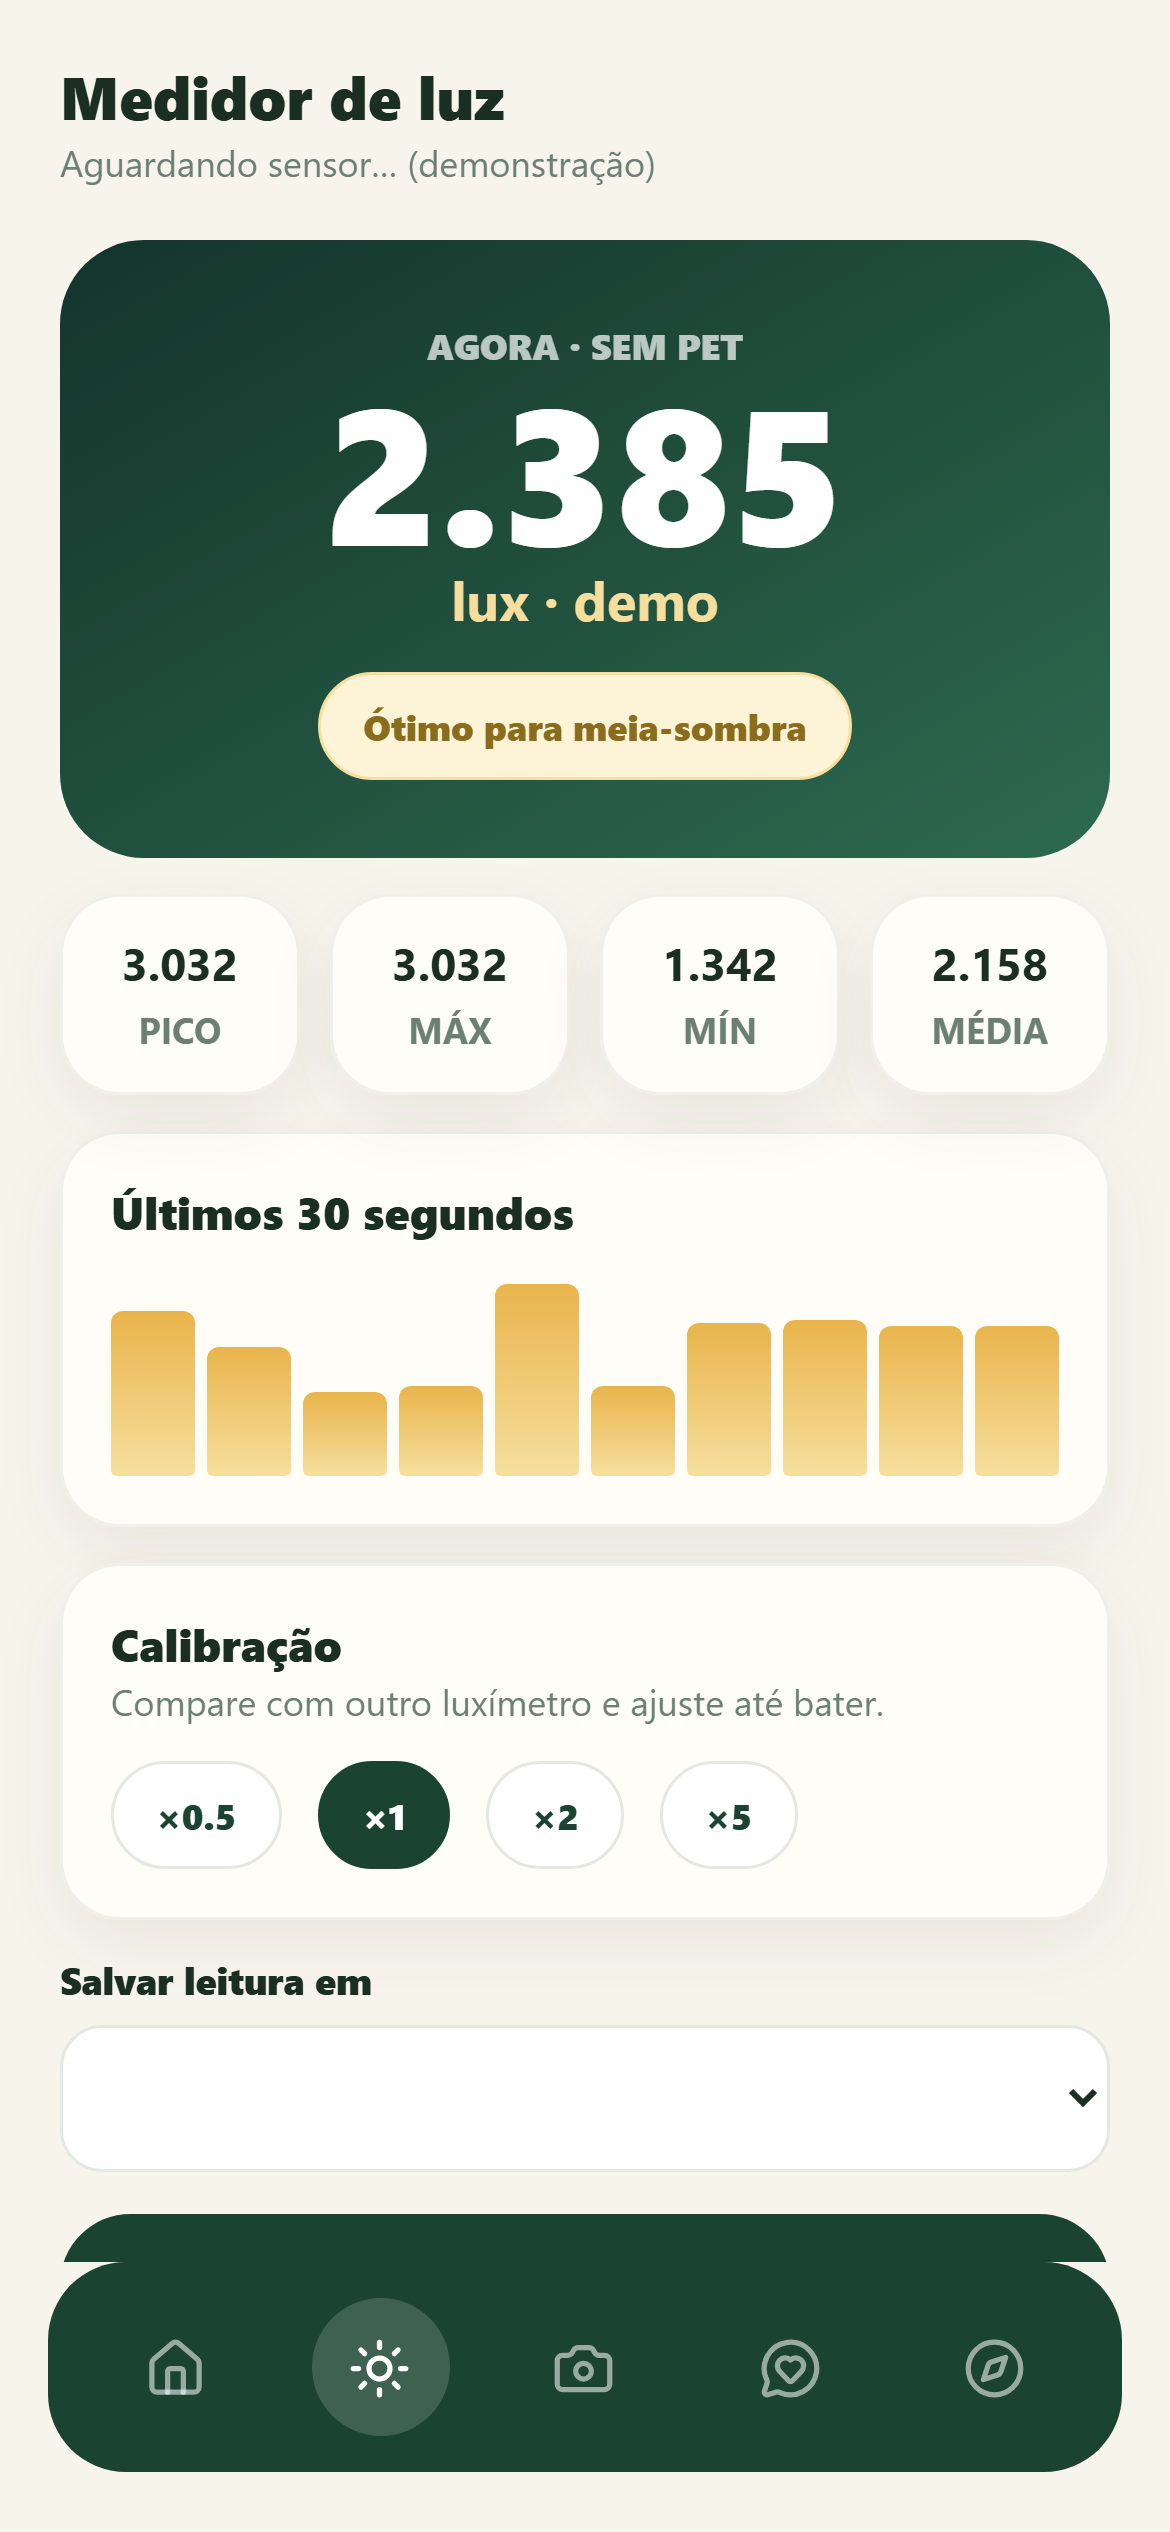
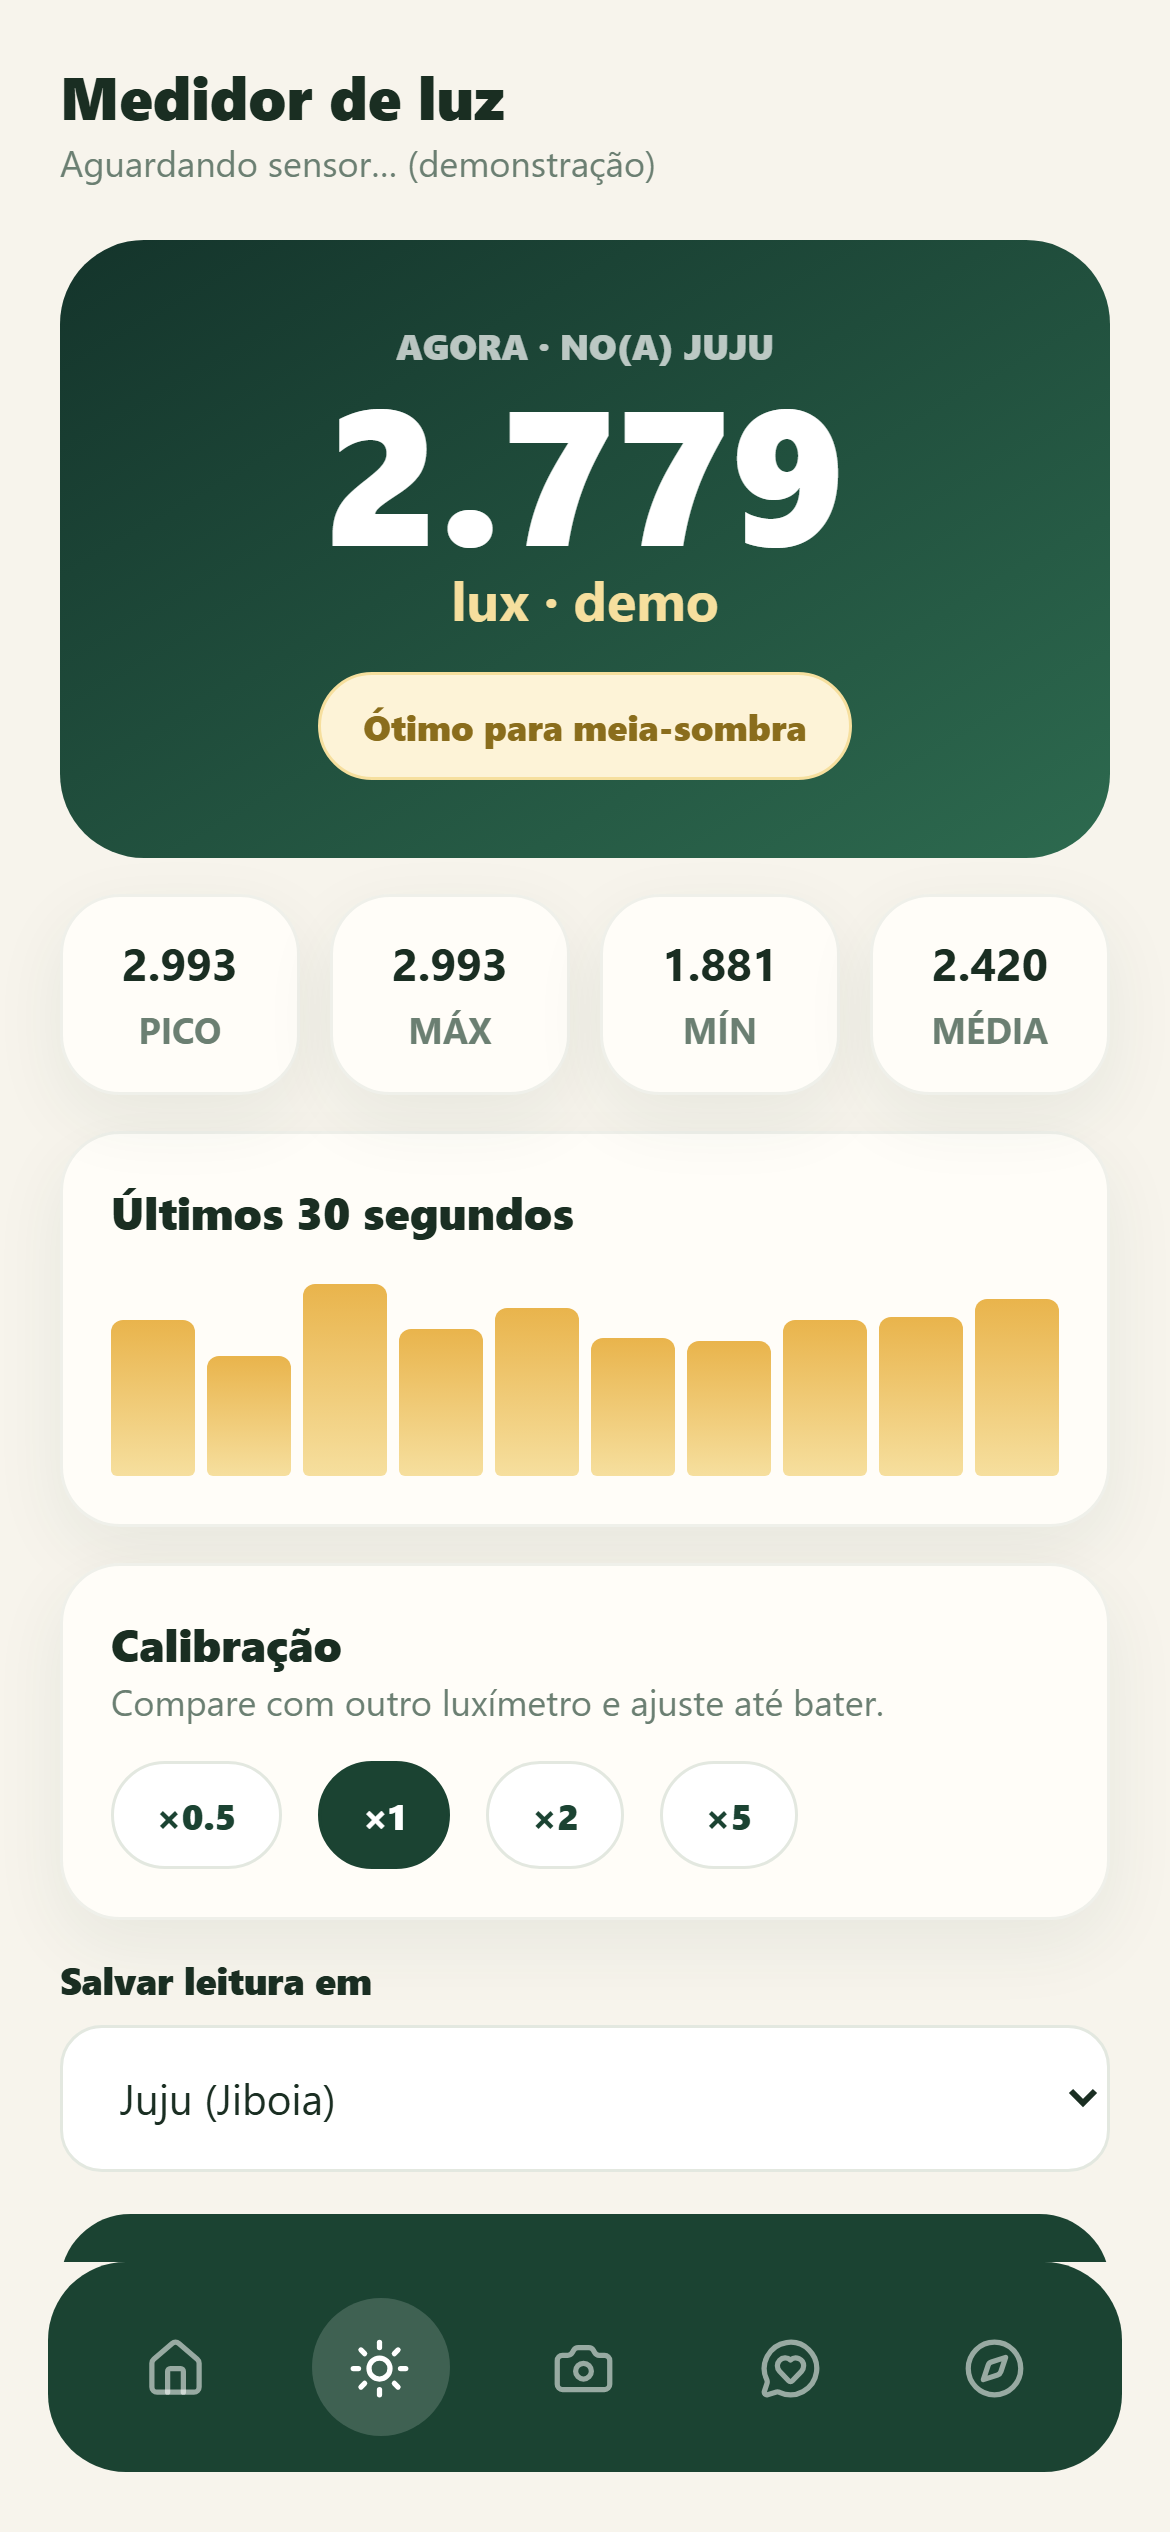
Video: roteiros, telas reais do app e correcao da posicao do sol

diff --git a/mudai/video/README.md b/mudai/video/README.md
@@ -68,14 +68,42 @@ um enfeite — assim o vídeo tem uma ideia só, e não vários efeitos soltos.
 | `04-identificar.png` | 1ª tela | É o efeito uau: foto → Costela-de-adão, 98%. Vende sozinho |
 | `05-chat-hachimi.png` | 2ª tela | Mostra conversa de gente real, não robô. É o diferencial |
 | `07-minhas-plantas.png` | 3ª tela | Puxa o emocional: suas plantas como pets, com nota de saúde |
-| `03-medidor-luz.png` | 4ª tela | Prova que é útil de verdade: 2.385 lux na tela |
-| `06-posicao-sol.png` | reserva | Se sobrar tempo ou quiser trocar a do medidor |
+| `03-medidor-luz.png` | 4ª tela | Prova que é útil de verdade: 2.385 lux na tela ⚠ veja abaixo |
+| `06-posicao-sol.png` | reserva | Bússola solar com azimute e elevação reais |
 | `01-descobrir.png` | reserva | 200 plantas — bom para falar de variedade |
 | `02-ficha-planta.png` | reserva | Ficha completa com os gráficos |
 | `00-boas-vindas.png` | reserva | Abertura do app, se quiser outro começo |
 
 Todas são print real, 1170x2532 (3x), já com os dados verdadeiros: a Juju com
-saúde 100, a Gordinha com 59, o Hachimi respondendo sobre folha amarela.
+saúde 100, a Gordinha com 59, o Hachimi respondendo sobre folha amarela e a
+identificação acertando a Espada-de-são-jorge com 88%.
+
+Para recapturar (depois de mudar algo no app):
+
+```bash
+cd mudai/app
+set NODE_ENV=development
+set MUDAI_SESSAO=<token-de-sessão>
+node scripts/capturar-telas.mjs
+```
+
+O script pega os dados reais de produção e injeta as três plantas (Juju,
+Gordinha e Zazá) antes de fotografar, para nenhuma tela aparecer vazia.
+
+### ⚠ A tela do medidor precisa ser recapturada no celular
+
+`03-medidor-luz.png` foi capturada no navegador, que **não tem sensor de luz**.
+Por isso ela mostra `lux · demo` e o aviso "Aguardando sensor… (demonstração)".
+
+Isso é de propósito: o app avisa quando o número não veio do hardware, em vez de
+mostrar valor inventado como se fosse real. Nada de errado com o app — mas em
+propaganda não pega bem.
+
+**Como resolver:** abra o app no celular (que tem sensor), vá em Medidor de Luz e
+tire print do aparelho. O texto vira `lux · real`. Se não der, use
+`06-posicao-sol.png` no lugar dela — é igualmente visual e não tem esse aviso.
+
+
 
 ## Trilha e som
 

diff --git a/mudai/video/roteiro-24s.md b/mudai/video/roteiro-24s.md
@@ -23,7 +23,7 @@ continuidade que os blocos separados não conseguem.
 | **8,0s–11,0s** | A pétala acelera e vem na direção da câmera, crescendo, com rastro mostarda. |
 | **11,0s–12,0s** | Ela preenche a tela inteira, desfocada pelo movimento, e o quadro vira luz branca. |
 | **12,0s–16,0s** | A luz se abre em quatro painéis de vidro (formato celular) que flutuam para dentro. |
-| **16,0s–21,0s** | **Cole as telas reais** aqui, uma por painel: identificar, chat, minhas plantas, medidor. |
+| **16,0s–21,0s** | **Cole as telas reais** aqui, uma por painel: identificar, chat, minhas plantas, medidor (veja a nota no `README.md` sobre a do medidor). |
 | **21,0s–22,5s** | Os painéis saem flutuando. O quadro limpa para o centro. |
 | **22,5s–24,0s** | **Cole a marca** no centro e `Baixe grátis` embaixo. Segura até o fim. |
 

diff --git a/mudai/video/roteiro-8s.md b/mudai/video/roteiro-8s.md
@@ -104,6 +104,9 @@ Aqui entra a composição: você cola os prints reais por cima do que a IA gerou
   2. `telas/05-chat-hachimi.png` — o Hachimi respondendo sobre folha amarela
   3. `telas/07-minhas-plantas.png` — Juju 100, Gordinha 59
   4. `telas/03-medidor-luz.png` — 2.385 lux
+     ↳ **capture esta no celular**, não no navegador. No navegador ela mostra
+     "lux · demo" (não tem sensor). No aparelho mostra "lux · real".
+     Alternativa sem esse detalhe: `telas/06-posicao-sol.png`
 - **21,5s–22,5s** — Os painéis saem, a tela limpa com brilho suave ao centro.
 - **22,5s–24,0s** — **Cole a marca Mudaí** no centro e, embaixo, o texto da
   chamada: `Baixe grátis`. Segura até o fim.
